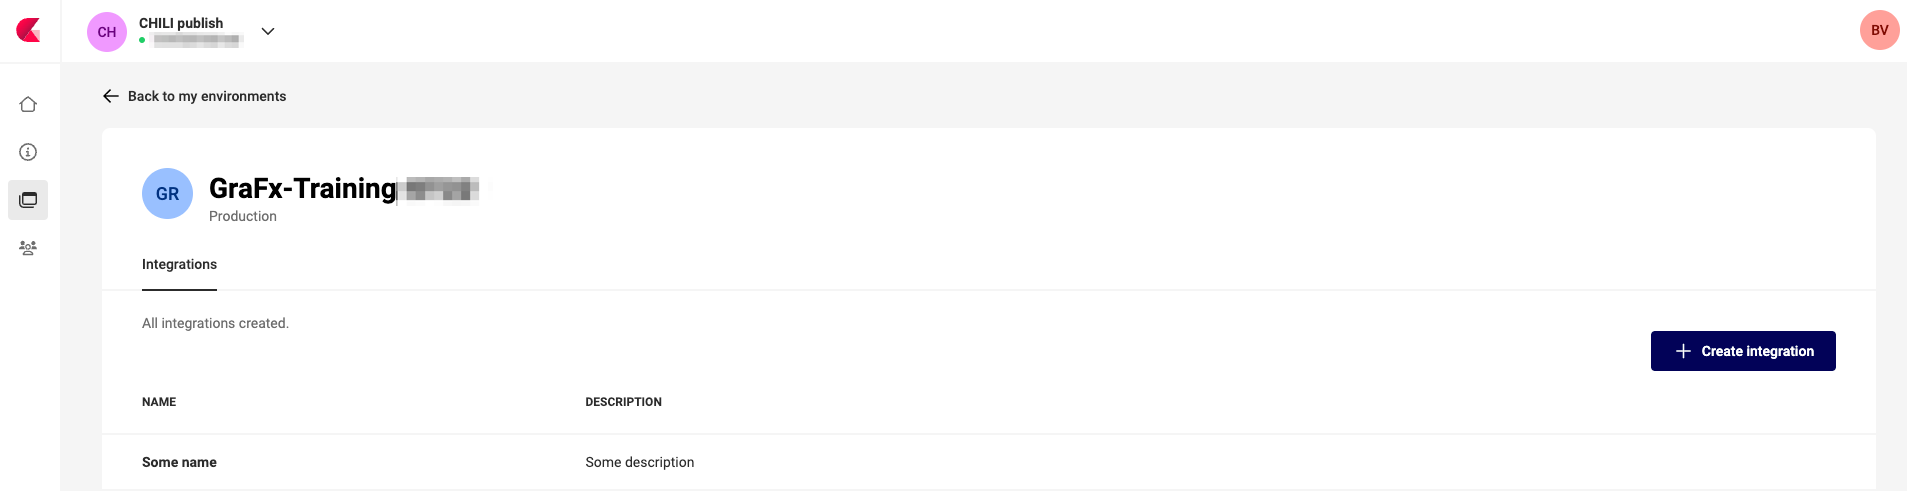
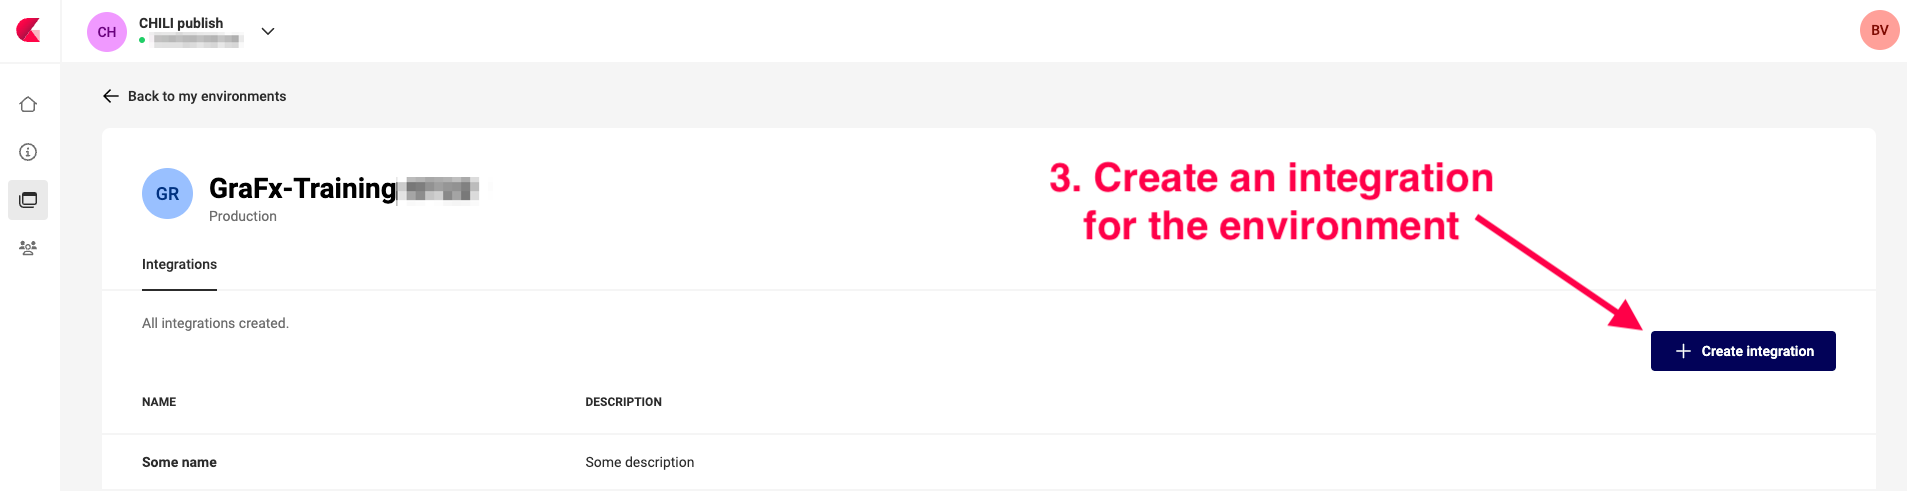
modify images and add to integration guide

Changed region(s): [[0.526, 0.336, 0.8044, 0.5193], [0.8044, 0.5193, 0.8353, 0.611], [0.8353, 0.611, 0.8663, 0.6721]]

diff --git a/docs/CHILI-GraFx/guides/integrations/index.md b/docs/CHILI-GraFx/guides/integrations/index.md
@@ -4,7 +4,7 @@ Empower Your Custom Solutions
 
 ## Introduction
 
-This guide will walk you through the process of defining an integration within the CHILI GraFx platform, obtaining the necessary credentials, and creating a token for seamless API communication. Integrating with CHILI GraFx enables you to leverage Smart Templates and enhance the functionality of your applications. Let's get started!
+This guide will walk you through the process of defining an integration within the CHILI GraFx platform, obtaining the necessary credentials, and creating a token for seamless API communication. Integrating with CHILI GraFx enables you to leverage Smart Templates and customize the functionality of your applications. Let's get started!
 
 ## Step 1: Accessing the CHILI GraFx Platform
 
@@ -36,46 +36,199 @@ Click an existing integration to edit its details.
 
 ### Step 3: Obtaining Integration Credentials
 
-After saving the integration configuration, the CHILI GraFx platform will generate a set of credentials specifically for this integration.
+After saving the integration configuration, click on the integration name, to see the details panel.
 
-These credentials include an integration ID, a client ID, and a client secret. Make sure to securely store these credentials, as they are essential for subsequent steps.
+When looking at the details for your integration, you will notice that there are two tabs.
 
-Click on the Integration name, to see the details
+##### The General Tab
+The `General` tab contains the information about your integration and the authentication credentials.
 
-2 tabs: General details and Permissions
+The CHILI GraFx platform will generate a set of credentials specifically for this integration.
+
+These credentials include a `Client ID` and `Client Secret`. Make sure to securely store these credentials, as they we will use this information to generate our "access token" which we will then use to authorize our API requests.
 
 ![screenshot](integration5.png)
 
-Permissions are presented as API scopes, and will determine the access your integration has on the platform.
+##### Your Environment Swagger
+At the bottom of the `General` tab you will notice that there are links to the Environment API and Platform API Swagger pages for your environment that you can interactively test endpoints with **after** [generating an access token](#step-4-generating-an-access-token)
+
+##### The Permissions tab
+The `Permissions` tab is where you can control the level of access your integration has to your environment.
+Permissions are presented as API scopes, and will determine the access your integration has on the environment.
 
 ![screenshot](integration6.png)
 
 ### Step 4: Generating an Access Token
 
-The CHILI GraFx platform is now ready to provide an  access token. This token serves as your application's authorization for subsequent API calls.
+Now we can request an access token using our `Client ID` and `Client Secret`. This token will serve as your application's authorization for subsequent API calls.
 
-How to get an access token? Below is an example of a curl command.
+To get an access token we simply make a POST request to our auth server located at `https://integration-login.chiligrafx.com/oauth/token` and provide a couple fields. If all goes as intended, you will receive an access_token in your response.
 
-``` SH
-curl --location \
---request POST 'https://integration-login.chiligrafx.com/oauth/token' \
---header 'content-type: application/x-www-form-urlencoded' \
---data-urlencode 'audience=https://chiligrafx.com' \
---data-urlencode 'grant_type=client_credentials' \
---data-urlencode 'client_id=<CLIENT_ID>' \
---data-urlencode 'client_secret=<CLIENT_SECRET>'
-```
+Here are some examples for making this request
 
-This call is best done **server-side** to not expose the **client_id** and certainly not the **client_secret** in the browser.
+=== "cURL"
+    ``` SH
+    curl --location \
+    --request POST 'https://integration-login.chiligrafx.com/oauth/token' \
+    --header 'content-type: application/x-www-form-urlencoded' \
+    --data-urlencode 'audience=https://chiligrafx.com' \
+    --data-urlencode 'grant_type=client_credentials' \
+    --data-urlencode 'client_id=<CLIENT_ID>' \
+    --data-urlencode 'client_secret=<CLIENT_SECRET>'
+    ```
+=== "Python"
+    ```python
+    import requests
+
+    endpoint = 'https://integration-login.chiligrafx.com/oauth/token'
+    client_id = '<YOUR CLIENT ID>'
+    client_secret = '<YOUR CLIENT SECRET>'
+
+    resp = requests.post(
+        url=endpoint,
+        headers={
+            "content-type": "application/json"
+        },
+        json={
+            "grant_type": "client_credentials",
+            "audience": "https://chiligrafx.com",
+            "client_id": client_id,
+            "client_secret": client_secret,
+        }
+    )
+
+    if resp.status_code == 200:
+        print(resp.json()["access_token"])
+    else:
+        raise Exception(f"{resp.text}")
+    ```
+=== "Node v18+"
+    ```javascript
+    const client_id = '<YOUR CLIENT ID>'
+    const client_secret = '<YOUR CLIENT SECRET>'
+
+    fetch('https://integration-login.chiligrafx.com/oauth/token', {
+    method: "POST",
+    headers: {
+        'Content-Type': 'application/json'
+    },
+    body: JSON.stringify({
+        'grant_type': 'client_credentials',
+        'audience': 'https://chiligrafx.com',
+        'client_id': client_id,
+        'client_secret': client_id
+    })
+    })
+    .then(response => response.json()
+    .then(data => console.log(data)))
+    ```
+=== "Go"
+    ```go
+    package main
+
+    import (
+        "bytes"
+        "encoding/json"
+        "fmt"
+        "net/http"
+    )
+
+    type AuthResponse struct {
+        Token		string  `json:"access_token"`
+        Expiration	int 	`json:"expires_in"`
+        Type	    string  `json:"token_type"`
+        Scope		string  `json:"scope"`
+    }
+
+    func main() {
+        posturl := "https://integration-login.chiligrafx.com/oauth/token"
+
+        body := []byte(`{
+            "grant_type": "client_credentials",
+            "audience": "https://chiligrafx.com",
+            "client_id": "<YOUR CLIENT ID>",
+            "client_secret": "<YOUR CLIENT SECRET>"
+        }`)
+
+        r, err := http.NewRequest("POST", posturl, bytes.NewBuffer(body))
+        if err != nil {
+            panic(err)
+        }
+
+        r.Header.Add("Content-Type", "application/json")
+
+        client := &http.Client{}
+        res, err := client.Do(r)
+        if err != nil {
+            panic(err)
+        }
+
+        defer res.Body.Close()
+
+        response := &AuthResponse{}
+        derr := json.NewDecoder(res.Body).Decode(response)
+        if derr != nil {
+            panic(derr)
+        }
+
+        if res.StatusCode != 200 {
+            panic(res.Status)
+        }
+
+        fmt.Println("Token:", response.Token)
+    }
+    ```
+=== "Java"
+    ```Java
+    // This expects a ResponseType class to be defined with the response JSON properties
+    // `access_token`, `expires_in`, `scope`, and `token_type`
+    Map<String, Object> body = new HashMap<>();
+    body.put("grant_type", "client_credentials");
+    body.put("audience", "https://chiligrafx.com");
+    body.put("client_id", client_id);
+    body.put("client_secret", client_id);
+
+    BodyBuilder requestBuilder;
+
+    try {
+      requestBuilder = RequestEntity.method(HttpMethod.POST, new URI("https://integration-login.chiligrafx.com/oauth/token"));
+    } catch (URISyntaxException e) {
+      log.error("Invalid URI: {}", url);
+      log.error(e);
+      throw new InvalidRequestException("Invalid URL");
+    }
+
+    requestBuilder.contentType(MediaType.APPLICATION_JSON);
+    RequestEntity<Object> requestEntity = requestBuilder.body(body);
+
+    ResponseEntity<ResponseType> responseEntity = restTemplate.exchange(
+      requestEntity,
+      new ParameterizedTypeReference<ResponseType>() {}
+    );
+    if (!responseEntity.getStatusCode().is2xxSuccessful()) {
+      // The error handler built into the RestTemplate should handle 400 and 500 series errors.
+      throw new RestClientException(
+        "API returned " + responseEntity.getStatusCode()
+      );
+    }
+
+    log.info("Got response: {}", responseEntity.getBody());
+    ```
+
+
+This call is best done **server-side** to not expose the **client_id** and certainly not the **client_secret** in the browser. You can pass the resulting access token to your front-end
 
 Extract the access token from the authentication response and securely store it within your application.
 
-The access token is issued with an expiration time set to 10 hours. Ensure your application is capable of refreshing the token when necessary.
+The access token is issued with an expiration offset. You can find this in the `expires_in` JSON property of the response. Ensure your application refreshes it's token when necessary. You simply repeat the process generate a new token.
 
 ### Step 6: Making API Calls
 
-With the access token in hand, you can now include it in the headers or parameters of your API requests to the CHILI GraFx platform.
+With the access token in hand, you can now include it in the headers of your API requests to the CHILI GraFx platform.
+`Authorization: Bearer <YOUR ACCESS TOKEN>`
 
 Refer to the [Developer](/GraFx-Developers/) documentation to explore the available endpoints, request parameters, and response formats.
 
 Leverage the API calls to interact with the CHILI GraFx platform, perform operations such as creating, updating, or retrieving resources, and integrate its capabilities seamlessly into your custom solution.
+
+You can use you access token to authorize and test calls in [your swagger](#your-environment-swagger)

diff --git a/docs/GraFx-Developers/index.md b/docs/GraFx-Developers/index.md
@@ -1,6 +1,6 @@
 # Integrate CHILI GraFx apps
 
-To communitcate with GraFx server side, please use these two APIs. You can learn more about the role of each API below.
+To communicate with GraFx, please use these two APIs. You can learn more about the role of each API below.
 
 - [Platform API](https://api.chiligrafx.com/swagger/index.html)
 - [Environment API](https://sandbox1.chili-publish-sandbox.online/grafx/swagger/index.html)
@@ -9,11 +9,16 @@ Client side
 
 - [GraFx Studio SDK](https://chili-publish.github.io/studio-sdk/index.html)
 
+**You can access the specific interactive Swagger for your environment API via the following format**
+
+Production: `<environment name>.chili-publish.online/grafx/swagger/index.html`
+
+Sandbox: `<environment name>.chili-publish-sandbox.online/grafx/swagger/index.html`
+
 ## Platform API
+The GraFx Platform API allows you to manage GraFx Platform resources.
 
-The **GraFx Platform API** allows you to manage GraFx Platform resources.
-
-Some exmaple use cases are:
+Some example use cases are:
 
 - User management
 - Environment creation
@@ -54,18 +59,20 @@ Error codes
 | 500		     	| Server dead   |
 | 404		     	| Function not found   |
 
+You can find out more about generating credentials in our [Integration Guide](/CHILI-GraFx/guides/integrations/)
+
 # Overview per application
 
 ## CHILI GraFx
 
-- [Getting Started](/CHILI-GraFx/integration/getting_started/)
+- [Getting Started](/CHILI-GraFx/integration/)
 - [Platform API Swagger](https://api.chiligrafx.com/swagger/index.html)
 
 ## GraFx Studio
 
 - [SDK Getting Started](/GraFx-Studio/integration/getting-started/)
 - [SDK Reference](https://chili-publish.github.io/studio-sdk/index.html)
-- [Environment API Swagger](https://sandbox1.chili-publish-sandbox.online/grafx/swagger/index.html)
+
 
 ## GraFx Publisher
 

diff --git a/docs/CHILI-GraFx/integration/index.md b/docs/CHILI-GraFx/integration/index.md
@@ -2,21 +2,21 @@
 
 ## Out-of-the-box
 
-CHILI GraFx can be used [out of the box](/CHILI-GraFx/concepts/template-management/).
+CHILI GraFx does not require a custom integration, it can be used [out of the box](/CHILI-GraFx/concepts/template-management/) with this very simple workflow.
 
 - Create a Smart Template
-- Assign a template to a collection
+- Assign a template to a [collection](/CHILI-GraFx/guides/manage-collections/)
 - Allow end-users on the platform to create Projects from these collections.
 
-## Powerful CHILI GraFx engine
+## Powerful CHILI GraFx Studio engine
 
-If you want to harness the full power of the CHILI GraFx engine, you can integrate it into your application.
+If you want to customize your experience with GraFx, allowing you to tailor the power of our GraFx Studio engine to your specific use case, you have the ability to integrate it into your application.
 
 More information on [the concept](/CHILI-GraFx/concepts/integrations/).
 
-## Create integrations
+## Authentication for your integration
 
-Before proceeding, you'll need to create an "Integration" to create credentials.
+Before proceeding, you'll need to create an "Integration" in GraFx to generate a set of credentials you can use to authenticate with our platform.
 
 Refer to the guide "[How to manage Integrations](/CHILI-GraFx/guides/integrations/)" for instructions on how to do this.
 
